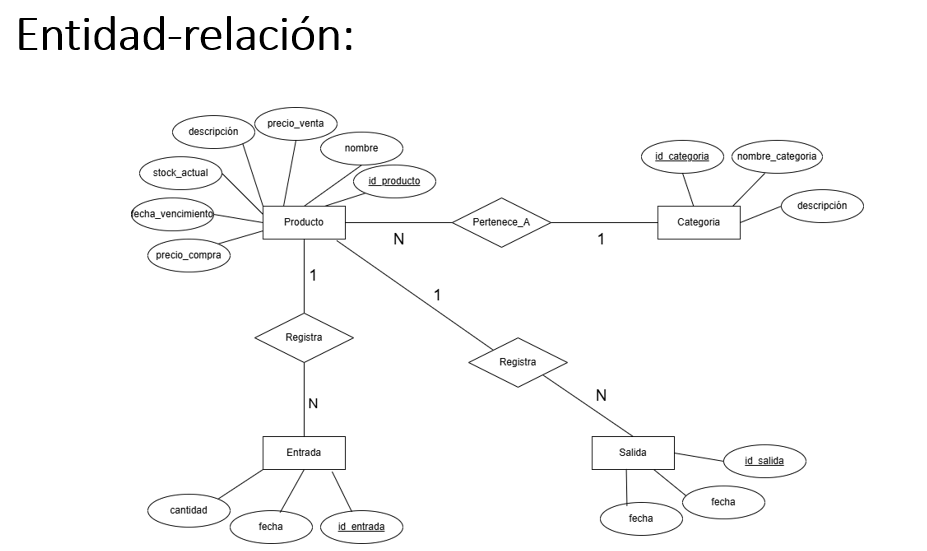
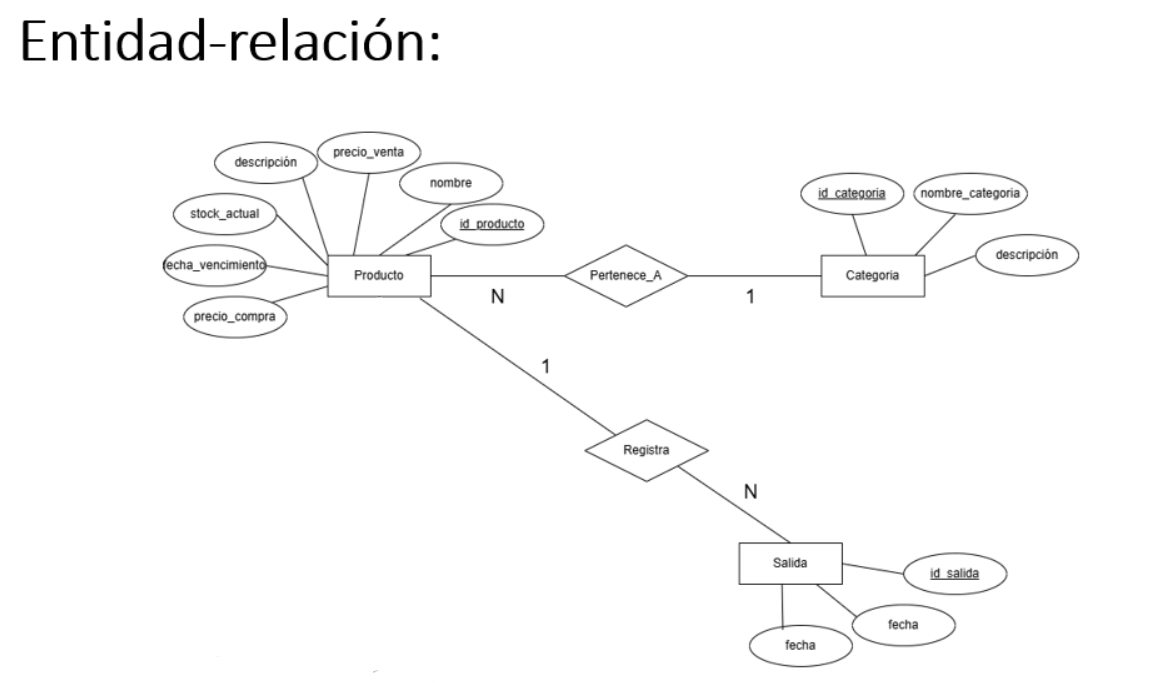
as

diff --git a/README.md b/README.md
@@ -99,6 +99,8 @@ El sistema cuenta con 4 tablas principales:
 | CATEGORIA | Clasificación de los productos |
 | PRODUCTO | Registro de cada producto del inventario |
 | SALIDA | Registro de salidas de productos del almacén |
+| Usuario | Personas a la cual puenden acceder al dashboard |
+
 
 ### Diagrama Entidad-Relacion (DER)
 ![Diagrama Entidad Relacion](https://github.com/emiaj0978/TiendaSintia/blob/main/frontend/imagen/relacional(der).png)